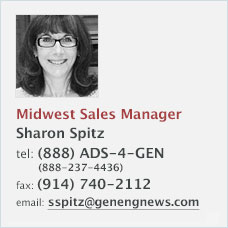
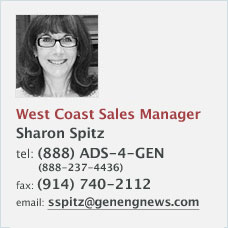
added rick and image changes

Changed region(s): [[0.0614, 0.4605, 0.8904, 0.5526], [0.0307, 0.9825, 0.9825, 1.0]]

diff --git a/GEN-Mobile-Social.html b/GEN-Mobile-Social.html
@@ -146,7 +146,7 @@ $(document).ready(function() {
             	<a href="mailto:sgiaccone@genengnews.com"><img src="img/For-Rates-Sande.jpg" /></a>
                 <a href="mailto:mlieberman@genengnews.com"><img src="img/For-Rates-Monica.jpg" /></a>
                 <a href="mailto:sspitz@genengnews.com"><img src="img/For-Rates-Sharon.jpg" /></a>
-                <a href="mailto:mtonon@genengnews.com"><img src="img/For-Rates-Mary.jpg" /></a>
+                <a href="mailto:rbongiovanni@GENengnews.com"><img src="img/For-Rates-Rick.jpg" /></a>
                 <a href="mailto:islade@genengnews.com"><img src="img/For-Rates-Ian.jpg" /></a>
                 <a href="mailto:vpalusevic@genengnews.com"><img src="img/For-Rates-Victoria.jpg" /></a>
                 <a href="mailto:sperillo@genengnews.com"><img src="img/For-Rates-Scott.jpg" /></a>
@@ -175,7 +175,7 @@ $(document).ready(function() {
 
 <div id="tabs-2" class="ui-corner-all short" style="height: 645px;">
 
-	<div id="mobiletab-02-img01"><a href="http://www.genengnews.com/media/pdf/Mobile-T2-MobileLife.pdf" target="_blank"><img src="img/ms-t2-img01.png" width="253" height="294"  alt=""/></a></div>
+	<div id="mobiletab-02-img01"><a class="fancybox" href="img/Bioperspectives.jpg"><img src="img/ms-t2-img01.png" width="253" height="294"  alt=""/></a></div>
 
 	<div class="right-tabcol">
     
@@ -208,7 +208,7 @@ $(document).ready(function() {
             	<a href="mailto:sgiaccone@genengnews.com"><img src="img/For-Rates-Sande.jpg" /></a>
                 <a href="mailto:mlieberman@genengnews.com"><img src="img/For-Rates-Monica.jpg" /></a>
                 <a href="mailto:sspitz@genengnews.com"><img src="img/For-Rates-Sharon.jpg" /></a>
-                <a href="mailto:mtonon@genengnews.com"><img src="img/For-Rates-Mary.jpg" /></a>
+                <a href="mailto:rbongiovanni@GENengnews.com"><img src="img/For-Rates-Rick.jpg" /></a>
                 <a href="mailto:islade@genengnews.com"><img src="img/For-Rates-Ian.jpg" /></a>
                 <a href="mailto:vpalusevic@genengnews.com"><img src="img/For-Rates-Victoria.jpg" /></a>
                 <a href="mailto:sperillo@genengnews.com"><img src="img/For-Rates-Scott.jpg" /></a>
@@ -236,7 +236,7 @@ $(document).ready(function() {
 
 <div id="tabs-3" class="ui-corner-all short" style="height: 645px;">
 
-	<div id="mobiletab-03-img01"><a href="http://www.genengnews.com/media/pdf/Mobile-T2-MobileLife.pdf" target="_blank"><img src="img/ms-t3-img01.png" width="251" height="284"  alt=""/></a></div>
+	<div id="mobiletab-03-img01"><a class="fancybox" href="img/FBookhomepg.jpg"><img src="img/ms-t3-img01.png" width="251" height="284"  alt=""/></a></div>
 
 	<div class="right-tabcol">
     
@@ -270,7 +270,7 @@ $(document).ready(function() {
             	<a href="mailto:sgiaccone@genengnews.com"><img src="img/For-Rates-Sande.jpg" /></a>
                 <a href="mailto:mlieberman@genengnews.com"><img src="img/For-Rates-Monica.jpg" /></a>
                 <a href="mailto:sspitz@genengnews.com"><img src="img/For-Rates-Sharon.jpg" /></a>
-                <a href="mailto:mtonon@genengnews.com"><img src="img/For-Rates-Mary.jpg" /></a>
+                <a href="mailto:rbongiovanni@GENengnews.com"><img src="img/For-Rates-Rick.jpg" /></a>
                 <a href="mailto:islade@genengnews.com"><img src="img/For-Rates-Ian.jpg" /></a>
                 <a href="mailto:vpalusevic@genengnews.com"><img src="img/For-Rates-Victoria.jpg" /></a>
                 <a href="mailto:sperillo@genengnews.com"><img src="img/For-Rates-Scott.jpg" /></a>

diff --git a/index.html b/index.html
@@ -40,7 +40,7 @@
     
     <div class="date-loc"><p>2016</p></div>
     <div class="head-text"><p style="margin-bottom: 2px;">GEN Media Kit &amp; Marketing Guide</p>
-    <p class="head-sub-link"><a href="http://www.genengnews.com/media/pdf/2015-GEN-Media-Kit.pdf" target="_blank">Download the Print Version</a></p></div>
+    <p class="head-sub-link" style="text-align: right;"><a href="http://www.genengnews.com/media/pdf/2015-GEN-Media-Kit.pdf" target="_blank">Download the Print Version</a></p></div>
 
 <!-- START #nav -->
     <div id="nav"><img src="img/nav-left.png" width="33" height="95"  alt=""/>
@@ -103,7 +103,7 @@
           <area shape="rect" coords="265,274,419,291" onClick="_gaq.push(['_trackEvent', 'Home', 'Email', 'Ian']);" href="mailto:islade@genengnews.com" alt="email: islade@genengnews.com" />
 		  <area shape="rect" coords="265,358,440,376" onClick="_gaq.push(['_trackEvent', 'Home', 'Email', 'Victoria']);" href="mailto:vpalusevic@genengnews.com"  alt="email: vpalusevic@genengnews.com" />
 		  <area shape="rect" coords="45,39,258,59" href="http://www.genengnews.com/media/pdf/Homepage-T1-Purchasing-Power.pdf" target="_blank" alt="GEN Delivers Purchasing Power" />
-          <area shape="rect" coords="45,61,258,78" href="http://www.genengnews.com/media/pdf/2016_GEN_Audience_Leader.pdf" target="_blank" alt="The Audience Leader" />
+          <area shape="rect" coords="45,61,258,78" href="http://www.genengnews.com/media/pdf/GEN Audience Leader.pdf" target="_blank" alt="The Audience Leader" />
           <area shape="rect" coords="45,79,258,99" href="http://www.genengnews.com/media/pdf/Homepage-T2-DominateDayParts.pdf" target="_blank" alt="GEN Dominates Around the Clock" />
           <area shape="rect" coords="45,100,258,118" href="http://www.genengnews.com/media/pdf/Homepage-T2-TargetAdProgramKeyStages.pdf" target="_blank" alt="Customer Sales Cycle" />
           <area shape="rect" coords="45,120,258,140" href="http://www.genengnews.com/media/pdf/2015-GEN-Media-Kit.pdf" target="_blank" alt="Download the Print Version" />
@@ -134,8 +134,8 @@
 </div>
 <!-- END .tab-left -->
 
-<div id="tab01-img01"><a href="http://www.genengnews.com/media/pdf/Homepage-T1-Purchasing-Power.pdf" target="_blank" onClick="_gaq.push(['_trackEvent', 'Home', 'Image', 'Purchasing_T1']);"><img src="./img/home-tab01-img01.png"  alt="GEN Delivers Purchasing Power | GEN provides you with unrivalled exposure to key decision-makers, 93%* have money and the authority to make purchasing decisions." width="323" height="378" border="0"/></a></div>
-<div id="tab01-img02"><a href="http://www.genengnews.com/media/pdf/2016_GEN_Audience_Leader.pdf" target="_blank" onClick="_gaq.push(['_trackEvent', 'Home', 'Image', 'Audience_T1']);"><img src="img/home-tab01-img02.png"  alt="The Audience Leader" width="178" height="246" border="0"/></a></div>
+<div id="tab01-img01"><a class="fancybox" href="img/purchasing-power.jpg"><img src="./img/home-tab01-img01.png"  alt="GEN Delivers Purchasing Power | GEN provides you with unrivalled exposure to key decision-makers, 93%* have money and the authority to make purchasing decisions." width="323" height="378" border="0"/></a></div>
+<div id="tab01-img02"><a href="http://www.genengnews.com/media/pdf/GEN Audience Leader.pdf" target="_blank" onClick="_gaq.push(['_trackEvent', 'Home', 'Image', 'Audience_T1']);"><img src="img/home-tab01-img02.png"  alt="The Audience Leader" width="178" height="246" border="0"/></a></div>
 
 </div>
 

diff --git a/GEN-e-Newsletters.html b/GEN-e-Newsletters.html
@@ -158,7 +158,7 @@ Agilent Technologies</p>
             	<a href="mailto:sgiaccone@genengnews.com"><img src="img/For-Rates-Sande.jpg" /></a>
                 <a href="mailto:mlieberman@genengnews.com"><img src="img/For-Rates-Monica.jpg" /></a>
                 <a href="mailto:sspitz@genengnews.com"><img src="img/For-Rates-Sharon.jpg" /></a>
-                <a href="mailto:mtonon@genengnews.com"><img src="img/For-Rates-Mary.jpg" /></a>
+                <a href="mailto:rbongiovanni@GENengnews.com"><img src="img/For-Rates-Rick.jpg" /></a>
                 <a href="mailto:islade@genengnews.com"><img src="img/For-Rates-Ian.jpg" /></a>
                 <a href="mailto:vpalusevic@genengnews.com"><img src="img/For-Rates-Victoria.jpg" /></a>
                 <a href="mailto:sperillo@genengnews.com"><img src="img/For-Rates-Scott.jpg" /></a>
@@ -221,7 +221,7 @@ Agilent Technologies</p>
             	<a href="mailto:sgiaccone@genengnews.com"><img src="img/For-Rates-Sande.jpg" /></a>
                 <a href="mailto:mlieberman@genengnews.com"><img src="img/For-Rates-Monica.jpg" /></a>
                 <a href="mailto:sspitz@genengnews.com"><img src="img/For-Rates-Sharon.jpg" /></a>
-                <a href="mailto:mtonon@genengnews.com"><img src="img/For-Rates-Mary.jpg" /></a>
+                <a href="mailto:rbongiovanni@GENengnews.com"><img src="img/For-Rates-Rick.jpg" /></a>
                 <a href="mailto:islade@genengnews.com"><img src="img/For-Rates-Ian.jpg" /></a>
                 <a href="mailto:vpalusevic@genengnews.com"><img src="img/For-Rates-Victoria.jpg" /></a>
                 <a href="mailto:sperillo@genengnews.com"><img src="img/For-Rates-Scott.jpg" /></a>
@@ -299,7 +299,7 @@ Choose from a pre-selected topic that targets the audience you want&nbsp;to&nbsp
   </tbody>
 </table>
 
-<p class="large" style="color: #a03c3e;">NEW for 2016! Tech Focus Resource Alert</p>
+<p class="large" style="color: #a03c3e;">NEW for 2016! <a href="http://www.genengnews.com/media/pdf/Tech%20Focus%20Resource%20Alert.pdf" target="_blank">Tech Focus Resource Alert</a></p>
         
     </div>
     <!-- END .right-tabcol -->
@@ -315,7 +315,7 @@ Choose from a pre-selected topic that targets the audience you want&nbsp;to&nbsp
             	<a href="mailto:sgiaccone@genengnews.com"><img src="img/For-Rates-Sande.jpg" /></a>
                 <a href="mailto:mlieberman@genengnews.com"><img src="img/For-Rates-Monica.jpg" /></a>
                 <a href="mailto:sspitz@genengnews.com"><img src="img/For-Rates-Sharon.jpg" /></a>
-                <a href="mailto:mtonon@genengnews.com"><img src="img/For-Rates-Mary.jpg" /></a>
+                <a href="mailto:rbongiovanni@GENengnews.com"><img src="img/For-Rates-Rick.jpg" /></a>
                 <a href="mailto:islade@genengnews.com"><img src="img/For-Rates-Ian.jpg" /></a>
                 <a href="mailto:vpalusevic@genengnews.com"><img src="img/For-Rates-Victoria.jpg" /></a>
                 <a href="mailto:sperillo@genengnews.com"><img src="img/For-Rates-Scott.jpg" /></a>

diff --git a/GEN-Website.html b/GEN-Website.html
@@ -106,7 +106,7 @@ $(document).ready(function() {
 </ul>
 <div id="tabs-1" class="ui-corner-all short">
 
-	<div id="webtab-01-img01"><a href="http://www.genengnews.com/media/pdf/Website-T1-KeyWebsiteMetrics.pdf" target="_blank" onClick="_gaq.push(['_trackEvent', 'Website', 'Image', 'Metrics_T1']);"><img src="img/webtab-01-img01.png" width="251" height="340"  alt=""/></a></div>
+	<div id="webtab-01-img01"><a class="fancybox" href="img/Key-Metric.png"><img src="img/webtab-01-img01.png" width="251" height="340"  alt=""/></a></div>
 	
     <div class="right-tabcol">
     
@@ -138,7 +138,7 @@ $(document).ready(function() {
             	<a href="mailto:sgiaccone@genengnews.com"><img src="img/For-Rates-Sande.jpg" /></a>
                 <a href="mailto:mlieberman@genengnews.com"><img src="img/For-Rates-Monica.jpg" /></a>
                 <a href="mailto:sspitz@genengnews.com"><img src="img/For-Rates-Sharon.jpg" /></a>
-                <a href="mailto:mtonon@genengnews.com"><img src="img/For-Rates-Mary.jpg" /></a>
+                <a href="mailto:rbongiovanni@GENengnews.com"><img src="img/For-Rates-Rick.jpg" /></a>
                 <a href="mailto:islade@genengnews.com"><img src="img/For-Rates-Ian.jpg" /></a>
                 <a href="mailto:vpalusevic@genengnews.com"><img src="img/For-Rates-Victoria.jpg" /></a>
                 <a href="mailto:sperillo@genengnews.com"><img src="img/For-Rates-Scott.jpg" /></a>
@@ -195,7 +195,7 @@ $(document).ready(function() {
             	<a href="mailto:sgiaccone@genengnews.com"><img src="img/For-Rates-Sande.jpg" /></a>
                 <a href="mailto:mlieberman@genengnews.com"><img src="img/For-Rates-Monica.jpg" /></a>
                 <a href="mailto:sspitz@genengnews.com"><img src="img/For-Rates-Sharon.jpg" /></a>
-                <a href="mailto:mtonon@genengnews.com"><img src="img/For-Rates-Mary.jpg" /></a>
+                <a href="mailto:rbongiovanni@GENengnews.com"><img src="img/For-Rates-Rick.jpg" /></a>
                 <a href="mailto:islade@genengnews.com"><img src="img/For-Rates-Ian.jpg" /></a>
                 <a href="mailto:vpalusevic@genengnews.com"><img src="img/For-Rates-Victoria.jpg" /></a>
                 <a href="mailto:sperillo@genengnews.com"><img src="img/For-Rates-Scott.jpg" /></a>

diff --git a/GEN-Magazine.html b/GEN-Magazine.html
@@ -134,7 +134,7 @@ Department of Chemical Engineering, MIT</p>
             	<a href="mailto:sgiaccone@genengnews.com"><img src="img/For-Rates-Sande.jpg" /></a>
                 <a href="mailto:mlieberman@genengnews.com"><img src="img/For-Rates-Monica.jpg" /></a>
                 <a href="mailto:sspitz@genengnews.com"><img src="img/For-Rates-Sharon.jpg" /></a>
-                <a href="mailto:mtonon@genengnews.com"><img src="img/For-Rates-Mary.jpg" /></a>
+                <a href="mailto:rbongiovanni@GENengnews.com"><img src="img/For-Rates-Rick.jpg" /></a>
                 <a href="mailto:islade@genengnews.com"><img src="img/For-Rates-Ian.jpg" /></a>
                 <a href="mailto:vpalusevic@genengnews.com"><img src="img/For-Rates-Victoria.jpg" /></a>
                 <a href="mailto:sperillo@genengnews.com"><img src="img/For-Rates-Scott.jpg" /></a>
@@ -189,7 +189,7 @@ Department of Chemical Engineering, MIT</p>
             	<a href="mailto:sgiaccone@genengnews.com"><img src="img/For-Rates-Sande.jpg" /></a>
                 <a href="mailto:mlieberman@genengnews.com"><img src="img/For-Rates-Monica.jpg" /></a>
                 <a href="mailto:sspitz@genengnews.com"><img src="img/For-Rates-Sharon.jpg" /></a>
-                <a href="mailto:mtonon@genengnews.com"><img src="img/For-Rates-Mary.jpg" /></a>
+                <a href="mailto:rbongiovanni@GENengnews.com"><img src="img/For-Rates-Rick.jpg" /></a>
                 <a href="mailto:islade@genengnews.com"><img src="img/For-Rates-Ian.jpg" /></a>
                 <a href="mailto:vpalusevic@genengnews.com"><img src="img/For-Rates-Victoria.jpg" /></a>
                 <a href="mailto:sperillo@genengnews.com"><img src="img/For-Rates-Scott.jpg" /></a>

diff --git a/GEN-Leads.html b/GEN-Leads.html
@@ -159,7 +159,7 @@ $(document).ready(function() {
             	<a href="mailto:sgiaccone@genengnews.com"><img src="img/For-Rates-Sande.jpg" /></a>
                 <a href="mailto:mlieberman@genengnews.com"><img src="img/For-Rates-Monica.jpg" /></a>
                 <a href="mailto:sspitz@genengnews.com"><img src="img/For-Rates-Sharon.jpg" /></a>
-                <a href="mailto:mtonon@genengnews.com"><img src="img/For-Rates-Mary.jpg" /></a>
+                <a href="mailto:rbongiovanni@GENengnews.com"><img src="img/For-Rates-Rick.jpg" /></a>
                 <a href="mailto:islade@genengnews.com"><img src="img/For-Rates-Ian.jpg" /></a>
                 <a href="mailto:vpalusevic@genengnews.com"><img src="img/For-Rates-Victoria.jpg" /></a>
                 <a href="mailto:sperillo@genengnews.com"><img src="img/For-Rates-Scott.jpg" /></a>
@@ -230,7 +230,7 @@ $(document).ready(function() {
             	<a href="mailto:sgiaccone@genengnews.com"><img src="img/For-Rates-Sande.jpg" /></a>
                 <a href="mailto:mlieberman@genengnews.com"><img src="img/For-Rates-Monica.jpg" /></a>
                 <a href="mailto:sspitz@genengnews.com"><img src="img/For-Rates-Sharon.jpg" /></a>
-                <a href="mailto:mtonon@genengnews.com"><img src="img/For-Rates-Mary.jpg" /></a>
+                <a href="mailto:rbongiovanni@GENengnews.com"><img src="img/For-Rates-Rick.jpg" /></a>
                 <a href="mailto:islade@genengnews.com"><img src="img/For-Rates-Ian.jpg" /></a>
                 <a href="mailto:vpalusevic@genengnews.com"><img src="img/For-Rates-Victoria.jpg" /></a>
                 <a href="mailto:sperillo@genengnews.com"><img src="img/For-Rates-Scott.jpg" /></a>

diff --git a/GEN-Touch-Video.html b/GEN-Touch-Video.html
@@ -41,7 +41,7 @@
     
     <div class="date-loc"><p>2016</p></div>
     <div class="head-text"><p style="margin-bottom: 2px;">GEN Media Kit &amp; Marketing Guide</p>
-    <p class="head-sub-link"><a href="http://www.genengnews.com/media/pdf/GENMediaKit2014_SinglePgs_120513.pdf" target="_blank">Download the Print Version</a></p></div>
+    <p class="head-sub-link" style="text-align: right;"><a href="http://www.genengnews.com/media/pdf/GENMediaKit2014_SinglePgs_120513.pdf" target="_blank">Download the Print Version</a></p></div>
 
     <!-- START #nav -->
     <div id="nav"><img src="img/nav-left.png" width="33" height="95"  alt=""/>
